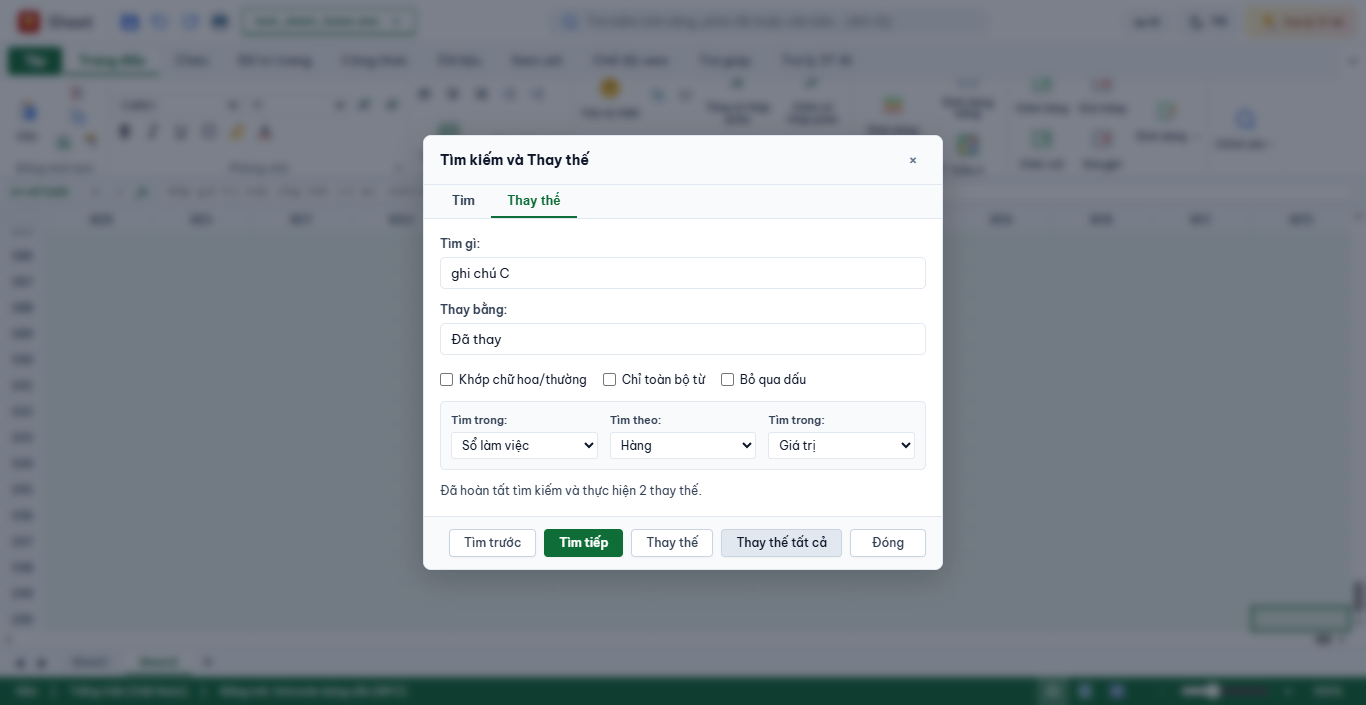
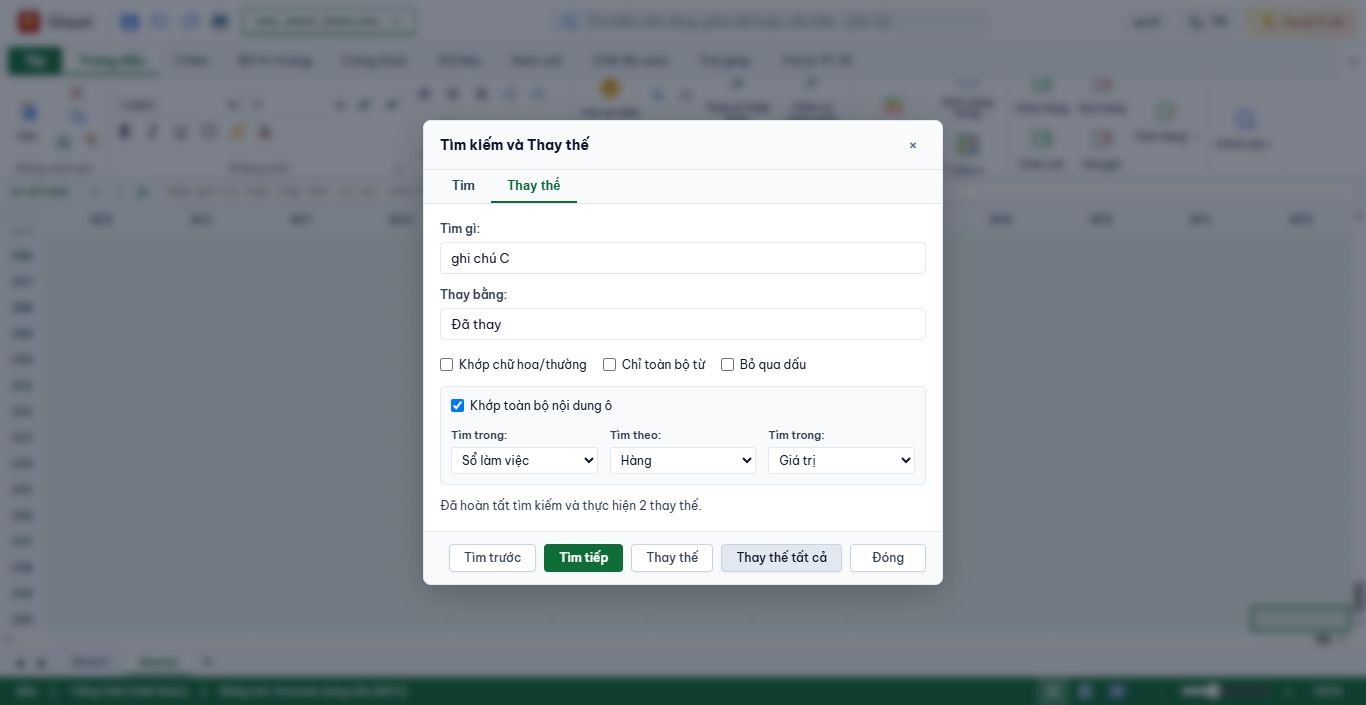
fix(sheet): add exact cell matching to find and replace

Changed region(s): [[0.3075, 0.156, 0.7072, 0.8426], [0.5227, 0.5929, 0.6149, 0.6865], [0.6457, 0.6241, 0.6764, 0.6553]]

diff --git a/platform/help/entries-sheet.js b/platform/help/entries-sheet.js
@@ -1023,15 +1023,15 @@ export const SHEET_HELP_ENTRIES = [
     app: "sheet",
     commandIds: ["common.edit.find", "common.edit.replace"],
     title: "Tìm kiếm và Thay thế trong Sheet",
-    summary: "Hộp thoại Tìm kiếm và Thay thế dùng chung phong cách phần mềm bảng tính khác cho Sheet. Hỗ trợ tìm trong Trang tính hoặc toàn bộ Sổ làm việc, tìm theo Hàng/Cột, tìm trong Công thức hoặc Giá trị, cùng Hoàn tác một bước (Ctrl+Z).",
+    summary: "Hộp thoại Tìm kiếm và Thay thế trong Sheet hỗ trợ tìm trong Trang tính hoặc toàn bộ Sổ làm việc, tìm theo Hàng/Cột, tìm trong Công thức hoặc Giá trị, khớp toàn bộ nội dung ô và Hoàn tác một bước (Ctrl+Z).",
     ribbon: { tab: "Trang đầu", tabId: "home", group: "Chỉnh sửa" },
     keywords: ["tìm", "thay thế", "find", "replace", "ctrl+f", "ctrl+h", "Sheet", "tìm kiếm", "công thức", "giá trị", "sổ làm việc"],
     steps: [
       "Truy cập: Mở tab Trang đầu trên thanh ribbon, vào nhóm Chỉnh sửa ở phía cuối bên phải và bấm Tìm kiếm (Ctrl+F) hoặc Thay thế (Ctrl+H) để mở hộp thoại Tìm kiếm và Thay thế gồm 2 tab.",
       "Tìm kiếm dữ liệu: Trong tab «Tìm» (Ctrl+F), nhập chuỗi vào ô «Tìm gì:». Bấm nút «Tìm tiếp» để nhảy tới ô khớp tiếp theo; bấm «Tìm trước» để lùi về ô khớp trước. Sheet tự động cuộn màn hình và kích hoạt ô được tìm thấy.",
       "Thay thế dữ liệu: Trong tab «Thay thế» (Ctrl+H), nhập nội dung cần thay đổi vào ô «Thay bằng:». Bấm «Thay thế» để đổi từng ô, hoặc bấm «Thay thế tất cả» để thay thế toàn bộ dữ liệu khớp và xem thông báo tổng số lượng thay thế đã thực hiện.",
-      "Tùy chọn nâng cao trong Sheet: Thiết lập phạm vi trong phần mở rộng: «Tìm trong: Trang tính / Sổ làm việc» (tìm trên trang hiện hành hay quét qua tất cả các trang tính), «Tìm theo: Hàng / Cột» (thứ tự duyệt dữ liệu theo dòng hay theo cột), và «Tìm trong: Giá trị / Công thức» (tìm trong kết quả hiển thị hoặc trong chuỗi công thức tính toán).",
-      "Tiếng Việt và bộ lọc từ: Hỗ trợ các tùy chọn «Khớp chữ hoa/thường», «Chỉ toàn bộ từ», và «Bỏ qua dấu» tiếng Việt. Cả chuỗi tìm và nội dung ô được chuẩn hóa Unicode NFC tự động, đảm bảo khớp chuẩn xác kể cả tổ hợp hay dựng sẵn.",
+      "Tùy chọn nâng cao trong Sheet: Thiết lập phạm vi «Tìm trong: Trang tính / Sổ làm việc», thứ tự «Tìm theo: Hàng / Cột», và nội dung «Giá trị / Công thức». Bật «Khớp toàn bộ nội dung ô» để chỉ chọn ô có nội dung bằng đúng chuỗi cần tìm; tắt tùy chọn này để tìm chuỗi nằm bên trong ô.",
+      "Tiếng Việt và bộ lọc từ: Hỗ trợ «Khớp chữ hoa/thường», «Chỉ toàn bộ từ», «Khớp toàn bộ nội dung ô» và «Bỏ qua dấu». Chuỗi được chuẩn hóa Unicode NFC tự động.",
       "Đóng và Hoàn tác: Bấm Esc để đóng hộp thoại. Sau khi đóng, hệ thống vẫn lưu lại từ khóa tìm kiếm của phiên làm việc. Mọi thao tác «Thay thế tất cả» đều được ghi nhận thành đúng 1 bước Hoàn tác (nhấn Ctrl+Z để hoàn tác toàn bộ các ô đã thay đổi cùng lúc)."
     ]
   },

diff --git a/platform/find/find-engine.js b/platform/find/find-engine.js
@@ -29,6 +29,7 @@ export function createMatcher(findText, options = {}) {
   const {
     matchCase = false,
     wholeWord = false,
+    matchCell = false,
     ignoreDiacritics = false,
     useRegex = false
   } = options;
@@ -52,13 +53,16 @@ export function createMatcher(findText, options = {}) {
   // Unicode whole-word boundary
   const prefix = wholeWord ? "(?<![\\p{L}\\p{N}])" : "";
   const suffix = wholeWord ? "(?![\\p{L}\\p{N}])" : "";
+  const fullPrefix = matchCell ? "^(?:" : prefix;
+  const fullSuffix = matchCell ? ")$" : suffix;
   const flags = (matchCase ? "" : "i") + "u";
 
   let normalRegex = null;
   try {
-    normalRegex = new RegExp(`${prefix}${pattern}${suffix}`, flags + "g");
+    normalRegex = new RegExp(`${fullPrefix}${pattern}${fullSuffix}`, flags + "g");
   } catch (_) {
-    normalRegex = new RegExp(escapeRegExp(normalizedFind), "gu");
+    const escapedPattern = escapeRegExp(normalizedFind);
+    normalRegex = new RegExp(`${matchCell ? "^(?:" : ""}${escapedPattern}${matchCell ? ")$" : ""}`, "gu");
   }
 
   let strippedRegex = null;
@@ -66,9 +70,10 @@ export function createMatcher(findText, options = {}) {
     const strippedFind = stripDiacritics(normalizedFind);
     const strippedPattern = useRegex ? strippedFind : escapeRegExp(strippedFind);
     try {
-      strippedRegex = new RegExp(`${prefix}${strippedPattern}${suffix}`, flags + "g");
+      strippedRegex = new RegExp(`${fullPrefix}${strippedPattern}${fullSuffix}`, flags + "g");
     } catch (_) {
-      strippedRegex = new RegExp(escapeRegExp(strippedFind), "gu");
+      const escapedPattern = escapeRegExp(strippedFind);
+      strippedRegex = new RegExp(`${matchCell ? "^(?:" : ""}${escapedPattern}${matchCell ? ")$" : ""}`, "gu");
     }
   }
 
@@ -88,6 +93,15 @@ export function createMatcher(findText, options = {}) {
     if (typeof haystack !== "string") return [];
     const normH = normalizeNFC(haystack);
     const results = [];
+
+    if (matchCell) {
+      const target = ignoreDiacritics ? stripDiacritics(normH) : normH;
+      const regex = ignoreDiacritics ? strippedRegex : normalRegex;
+      if (new RegExp(regex.source, regex.flags.replace("g", "")).test(target)) {
+        return [{ index: 0, match: normH, length: normH.length }];
+      }
+      return results;
+    }
 
     if (ignoreDiacritics) {
       const strippedH = stripDiacritics(normH);
@@ -153,6 +167,7 @@ export class FindReplaceEngine {
     this.options = {
       matchCase: false,
       wholeWord: false,
+      matchCell: false,
       ignoreDiacritics: false,
       useRegex: false,
       searchScope: "sheet",

diff --git a/platform/find/find-dialog.js b/platform/find/find-dialog.js
@@ -41,6 +41,7 @@ export let lastFindSession = {
   options: {
     matchCase: false,
     wholeWord: false,
+    matchCell: false,
     ignoreDiacritics: false,
     scope: "sheet",
     searchBy: "rows",
@@ -218,6 +219,10 @@ export function showFindReplaceDialog({
 
         <!-- Sheet-specific options -->
         <div id="vno-fr-sheet-options" style="display:${isSheet ? "grid" : "none"}; grid-template-columns: repeat(3, 1fr); gap:12px; padding:10px; background:var(--vno-bg-panel, #f3f4f6); border-radius:var(--vno-radius-md, 4px); border:1px solid var(--vno-border-default, #e5e7eb);">
+          <label style="display:flex; align-items:center; gap:6px; font-size:12px; color:var(--vno-text-primary, #374151); cursor:pointer; user-select:none; grid-column:1 / -1;">
+            <input type="checkbox" id="vno-fr-opt-cell" ${initialOptions.matchCell ? "checked" : ""} />
+            <span>${t("findReplace.matchCell", "Khớp toàn bộ nội dung ô")}</span>
+          </label>
           <div style="display:flex; flex-direction:column; gap:4px;">
             <label for="vno-fr-opt-scope" style="font-size:11px; font-weight:600; color:var(--vno-text-secondary, #4b5563);">${t("findReplace.within", "Tìm trong:")}</label>
             <select id="vno-fr-opt-scope" style="padding:4px 6px; font-size:12px; border:1px solid var(--vno-border-default, #d1d5db); border-radius:var(--vno-radius-sm, 3px); background:var(--vno-bg-surface, #fff); color:var(--vno-text-primary, #111827);">
@@ -266,6 +271,7 @@ export function showFindReplaceDialog({
   const replaceRow = overlay.querySelector("#vno-fr-replace-row");
   const optCase = overlay.querySelector("#vno-fr-opt-case");
   const optWord = overlay.querySelector("#vno-fr-opt-word");
+  const optCell = overlay.querySelector("#vno-fr-opt-cell");
   const optDiacritics = overlay.querySelector("#vno-fr-opt-diacritics");
   const optScope = overlay.querySelector("#vno-fr-opt-scope");
   const optDirection = overlay.querySelector("#vno-fr-opt-direction");
@@ -280,6 +286,7 @@ export function showFindReplaceDialog({
   const getOptions = (extra = {}) => ({
     matchCase: !!optCase?.checked,
     wholeWord: !!optWord?.checked,
+    matchCell: !!optCell?.checked,
     ignoreDiacritics: !!optDiacritics?.checked,
     scope: optScope ? optScope.value : "sheet",
     searchBy: optDirection ? optDirection.value : "rows",

diff --git a/tests/unit/sheet-slides-i18n-shortcuts.test.js b/tests/unit/sheet-slides-i18n-shortcuts.test.js
@@ -27,6 +27,7 @@ export async function runSheetSlidesI18nShortcutTests() {
   await test("Sheet/Slides i18n gap audit: Paste Special, Merge Cells, Data tools, Slides presenter dialog keys", () => {
     try {
       setLocale("en");
+      if (t("findReplace.matchCell") !== "Match entire cell contents") throw new Error("matchCell EN sai");
       if (t("sheetDialogs.pasteSpecialTitle") !== "Paste Special") throw new Error("pasteSpecialTitle EN sai");
       if (t("sheetDialogs.pasteSpecialValues") !== "Values") throw new Error("pasteSpecialValues EN sai");
       if (t("sheetDialogs.mergeConfirmTitle") !== "Merge cells") throw new Error("mergeConfirmTitle EN sai");
@@ -41,6 +42,7 @@ export async function runSheetSlidesI18nShortcutTests() {
       if (t("slidesDialogs.animFadeIn") !== "Fade In") throw new Error("animFadeIn EN sai");
 
       setLocale("vi");
+      if (t("findReplace.matchCell") !== "Khớp toàn bộ nội dung ô") throw new Error("matchCell VI sai");
       if (t("sheetDialogs.pasteSpecialTitle") !== "Dán đặc biệt") throw new Error("pasteSpecialTitle VI sai");
       if (t("sheetDialogs.pasteSpecialValues") !== "Chỉ giá trị") throw new Error("pasteSpecialValues VI sai");
       if (t("sheetDialogs.mergeConfirmTitle") !== "Trộn ô") throw new Error("mergeConfirmTitle VI sai");

diff --git a/tests/unit/find-replace-shared.test.js b/tests/unit/find-replace-shared.test.js
@@ -147,6 +147,18 @@ export async function runSharedFindReplaceTests() {
     assert.equal(partMatches.length, 3, "wholeWord: false khớp cả 3 lần (kể cả 'bảng')");
   });
 
+  test("Search Engine: Khớp toàn bộ nội dung ô và thay thế cả nội dung", () => {
+    const exact = createMatcher("Ghi chú A", { matchCell: true });
+    assert.equal(exact.matches("Ghi chú A"), true);
+    assert.equal(exact.matches("Ghi chú A thêm"), false, "Không nhận chuỗi chỉ chứa nội dung tìm kiếm");
+    assert.deepEqual(exact.findAll("Ghi chú A"), [{ index: 0, match: "Ghi chú A", length: 9 }]);
+    assert.deepEqual(exact.replace("Ghi chú A", "Đã thay", true), { text: "Đã thay", count: 1 });
+
+    const regex = createMatcher("Ghi.*A", { matchCell: true, useRegex: true });
+    assert.equal(regex.matches("Ghi chú A"), true, "Regex phải khớp toàn bộ nội dung ô");
+    assert.equal(regex.matches("Ghi chú A thêm"), false);
+  });
+
   // 3. Core Matcher: Vietnamese Diacritics and NFC Normalization
   test("Search Engine: Chuẩn hóa NFC và tùy chọn bỏ qua dấu tiếng Việt (kể cả đ/Đ)", () => {
     // Chuỗi dựng sẵn (NFC) vs tổ hợp (NFD)

diff --git a/apps/sheet/sheet-grid.js b/apps/sheet/sheet-grid.js
@@ -8641,6 +8641,7 @@ _bindGridKeyboardNavigation() {
     const opts = {
       matchCase: false,
       wholeWord: false,
+      matchCell: false,
       ignoreDiacritics: false,
       scope: "sheet",
       searchBy: "rows",
@@ -8674,7 +8675,7 @@ _bindGridKeyboardNavigation() {
       return entries;
     };
 
-    const stateKey = `${needle}__${opts.matchCase}__${opts.wholeWord}__${opts.ignoreDiacritics}__${opts.searchBy}__${opts.lookIn}__${opts.scope}`;
+    const stateKey = `${needle}__${opts.matchCase}__${opts.wholeWord}__${opts.matchCell}__${opts.ignoreDiacritics}__${opts.searchBy}__${opts.lookIn}__${opts.scope}`;
     if (this._findLastStateKey !== stateKey) {
       this._findLastStateKey = stateKey;
       this._findLastCoord = null;
@@ -8730,6 +8731,7 @@ _bindGridKeyboardNavigation() {
     const opts = {
       matchCase: false,
       wholeWord: false,
+      matchCell: false,
       ignoreDiacritics: false,
       scope: "sheet",
       searchBy: "rows",
@@ -8768,6 +8770,7 @@ _bindGridKeyboardNavigation() {
     const opts = {
       matchCase: false,
       wholeWord: false,
+      matchCell: false,
       ignoreDiacritics: false,
       scope: "sheet",
       searchBy: "rows",

diff --git a/platform/i18n/strings-vi.js b/platform/i18n/strings-vi.js
@@ -132,6 +132,7 @@ export const viStrings = {
     replacePlaceholder: "Nhập nội dung thay thế...",
     matchCase: "Khớp chữ hoa/thường",
     wholeWord: "Chỉ toàn bộ từ",
+    matchCell: "Khớp toàn bộ nội dung ô",
     ignoreDiacritics: "Bỏ qua dấu",
     within: "Tìm trong:",
     scopeSheet: "Trang tính",

diff --git a/platform/i18n/strings-en.js b/platform/i18n/strings-en.js
@@ -133,6 +133,7 @@ export const enStrings = {
     replacePlaceholder: "Enter replacement text...",
     matchCase: "Match case",
     wholeWord: "Match whole word",
+    matchCell: "Match entire cell contents",
     ignoreDiacritics: "Ignore diacritics",
     within: "Within:",
     scopeSheet: "Sheet",
